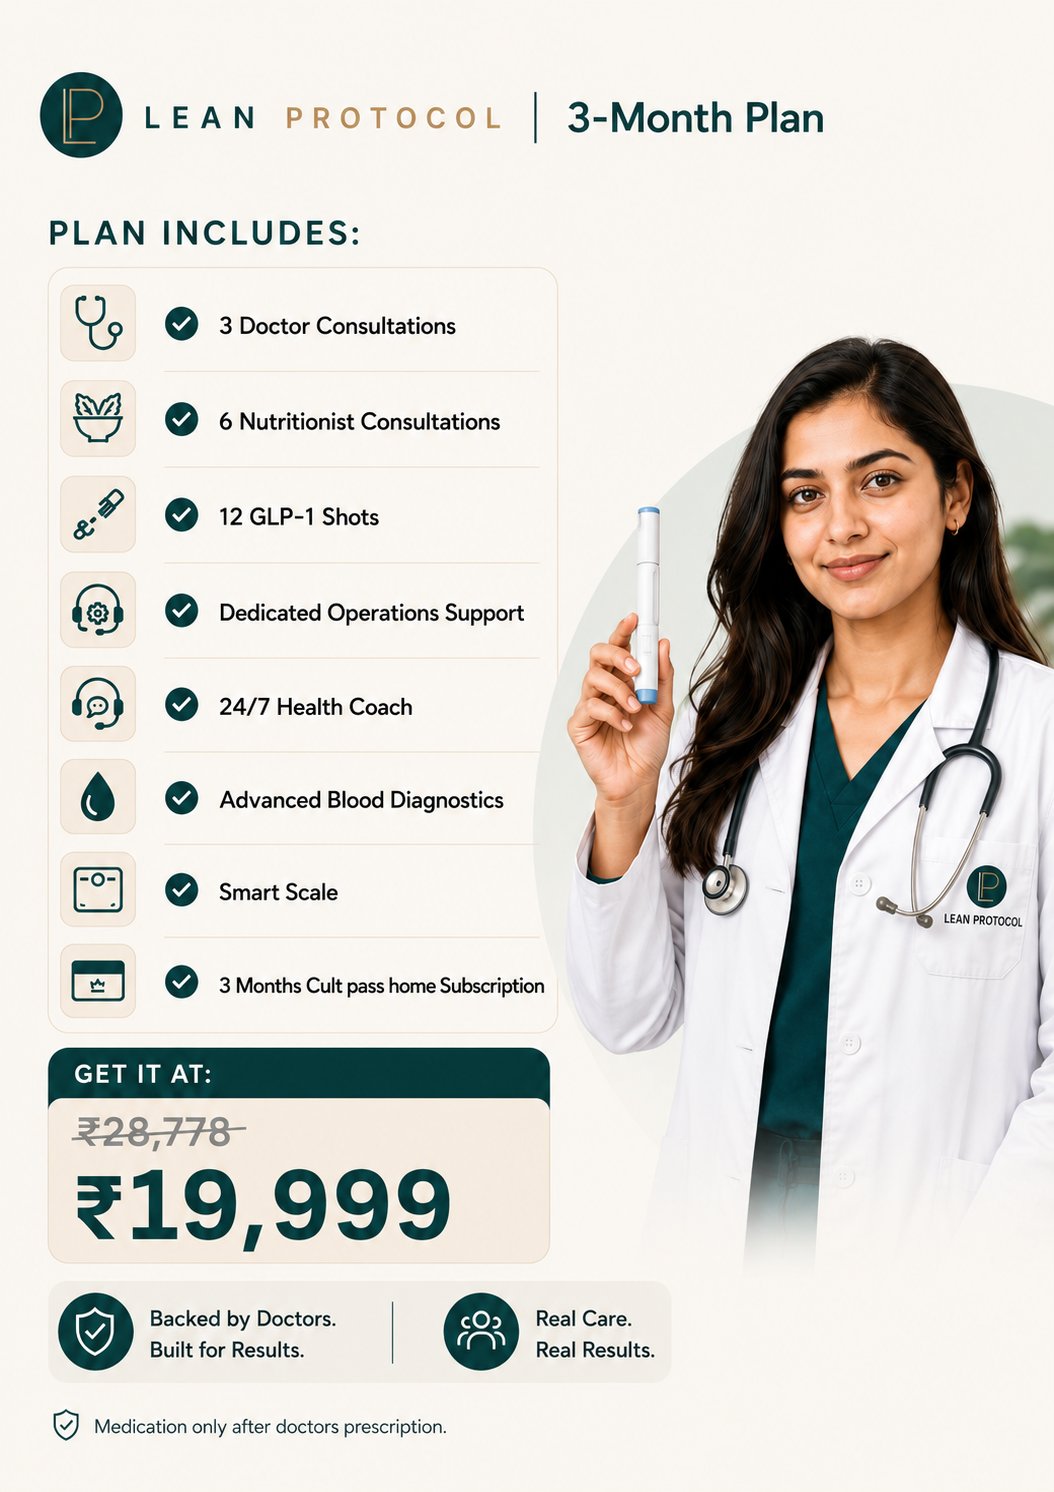
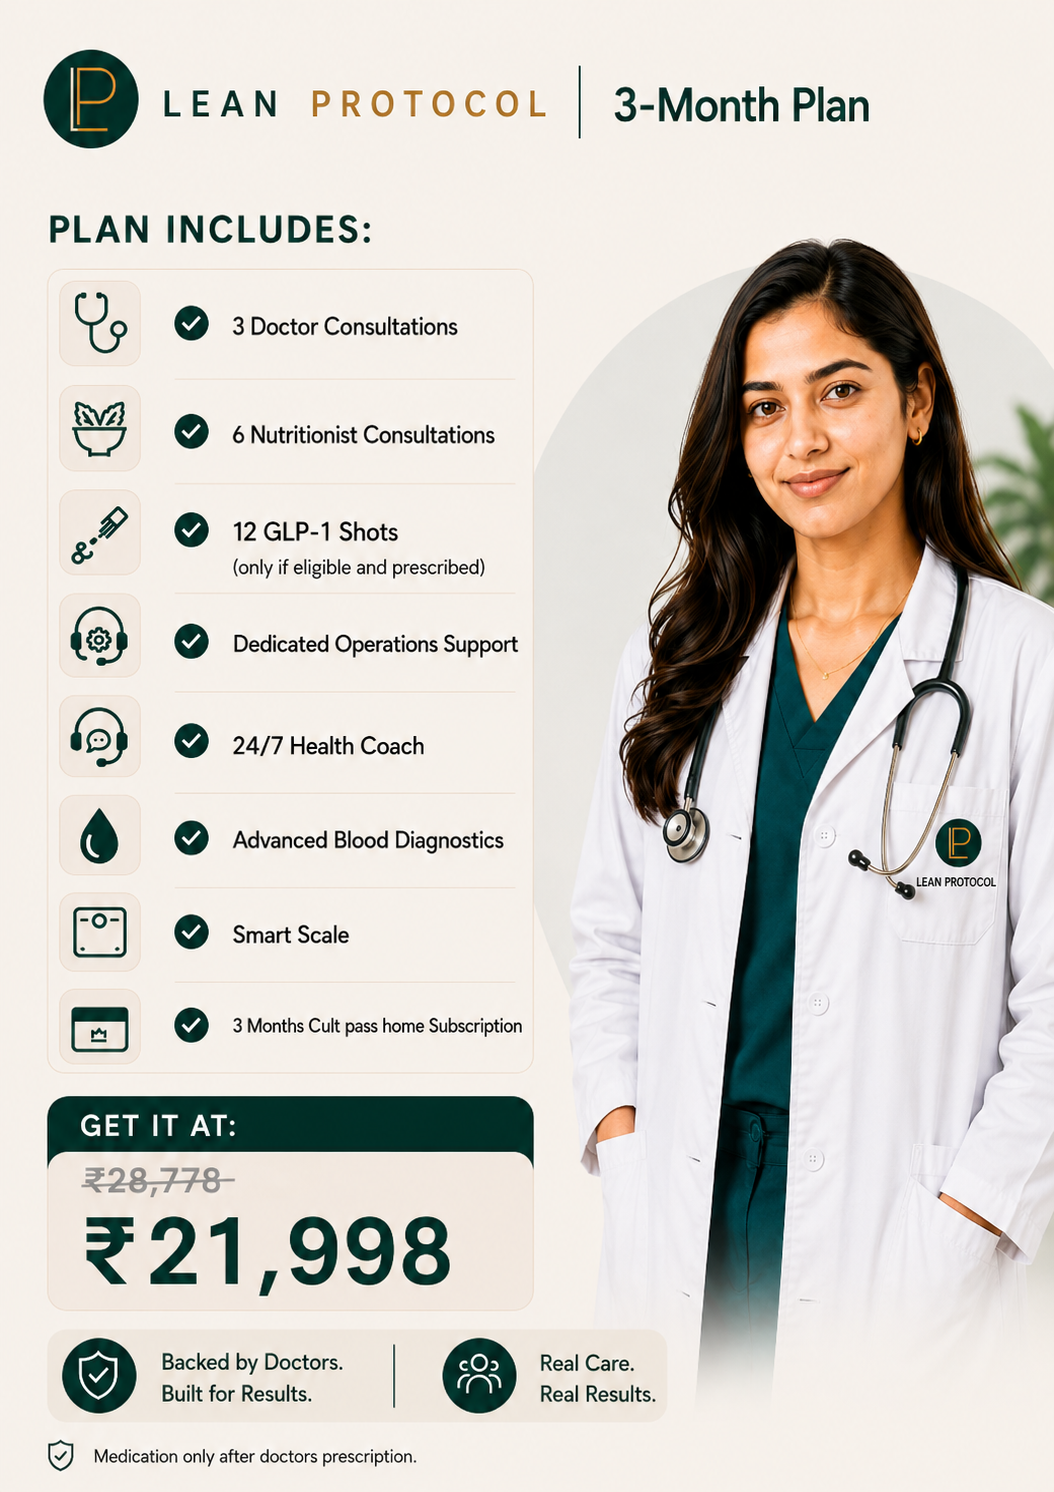
Update affiliate plan posters (1/3/6 month plans)

diff --git a/components/affiliate-lp/hero-section.tsx b/components/affiliate-lp/hero-section.tsx
@@ -38,7 +38,7 @@ export function HeroSection({ onBuyNow, isCheckoutLoading, dbPlans, pageTitle, m
     else if (plan.durationDays >= 90) durationLabel = "3 Months";
     else if (plan.durationDays <= 15 || plan.name.toLowerCase().includes("doctor")) durationLabel = "Doctor Consultation";
 
-    let image = medicationType === "MOUNJARO" ? "/lp-assets/mounjaro-1-month-plan.png" : "/lp-assets/1-month-plan.jpeg";
+    let image = medicationType === "MOUNJARO" ? "/lp-assets/mounjaro-1-month-plan.png" : "/lp-assets/1-month-plan.png";
     if (durationLabel === "3 Months") image = medicationType === "MOUNJARO" ? "/lp-assets/mounjaro-3-months-plan.png" : "/lp-assets/3-months-plan.png";
     else if (durationLabel === "6 Months") image = medicationType === "MOUNJARO" ? "/lp-assets/mounjaro-6-months-plan.png" : "/lp-assets/6-months-plan.png";
     else if (durationLabel === "Doctor Consultation") image = "/lp-assets/doctor-lean-protocol.jpeg";
@@ -54,24 +54,24 @@ export function HeroSection({ onBuyNow, isCheckoutLoading, dbPlans, pageTitle, m
   }) : [
     {
       durationLabel: "1 Month",
-      title: "Lean Start – Beginner Plan",
+      title: "Lean Start â€“ Beginner Plan",
       price: 5999,
       originalPrice: 9229,
-      image: "/lp-assets/1-month-plan.jpeg",
+      image: "/lp-assets/1-month-plan.png",
     },
     {
       durationLabel: "3 Months",
-      title: "Lean Pro – Comprehensive Plan",
+      title: "Lean Pro â€“ Comprehensive Plan",
       price: 19999,
       originalPrice: 28778,
-      image: "/lp-assets/3-months-plan.jpeg",
+      image: "/lp-assets/3-months-plan.png",
     },
     {
       durationLabel: "6 Months",
-      title: "Lean Champion – Guaranteed Weight Loss",
+      title: "Lean Champion â€“ Guaranteed Weight Loss",
       price: 39998,
       originalPrice: 58667,
-      image: "/lp-assets/6-months-plan.jpeg",
+      image: "/lp-assets/6-months-plan.png",
     },
     {
       durationLabel: "Doctor Consultation",
@@ -151,7 +151,7 @@ export function HeroSection({ onBuyNow, isCheckoutLoading, dbPlans, pageTitle, m
 
   return (
     <>
-      {/* SECTION 1 – Sticky Navbar (matches main site) */}
+      {/* SECTION 1 â€“ Sticky Navbar (matches main site) */}
       <header className="sticky top-0 md:top-3 z-50 mx-auto w-full md:w-[98%] md:max-w-[97%] md:rounded-2xl border border-white/40 bg-white/60 backdrop-blur-xl shadow-[0_12px_30px_rgba(15,23,42,0.12)] ring-1 ring-black/5 transition-all duration-300">
         <div className="container mx-auto flex h-16 md:h-20 items-center justify-between px-4 lg:px-8">
           <Link href="/" className="flex items-center">
@@ -176,7 +176,7 @@ export function HeroSection({ onBuyNow, isCheckoutLoading, dbPlans, pageTitle, m
         </div>
       </header>
 
-      {/* SECTION 2 – Hero / Plan Selector */}
+      {/* SECTION 2 â€“ Hero / Plan Selector */}
       <section className="pt-8 md:pt-12 pb-16 px-4 max-w-7xl mx-auto flex flex-col lg:grid lg:grid-cols-2 gap-8 md:gap-12" id="plans">
         
         {/* MOBILE HEADLINE (Shown only on mobile, placed at the top) */}
@@ -186,8 +186,8 @@ export function HeroSection({ onBuyNow, isCheckoutLoading, dbPlans, pageTitle, m
           </h1>
           
           <div className="flex items-center gap-3">
-            <span className="text-3xl font-bold text-lp-dark">₹{activePlan.price.toLocaleString()}</span>
-            <span className="text-lg text-gray-400 line-through">₹{activePlan.originalPrice.toLocaleString()}</span>
+            <span className="text-3xl font-bold text-lp-dark">â‚¹{activePlan.price.toLocaleString()}</span>
+            <span className="text-lg text-gray-400 line-through">â‚¹{activePlan.originalPrice.toLocaleString()}</span>
             <div className="bg-lp-green text-white text-[10px] font-bold px-2 py-1 rounded-full shadow-sm uppercase tracking-wider">
               {Math.round((1 - activePlan.price / activePlan.originalPrice) * 100)}% OFF
             </div>
@@ -203,8 +203,8 @@ export function HeroSection({ onBuyNow, isCheckoutLoading, dbPlans, pageTitle, m
             </h1>
             
             <div className="flex items-center gap-5 mt-6">
-              <span className="text-4xl font-bold text-lp-dark">₹{activePlan.price.toLocaleString()}</span>
-              <span className="text-xl text-gray-400 line-through">₹{activePlan.originalPrice.toLocaleString()}</span>
+              <span className="text-4xl font-bold text-lp-dark">â‚¹{activePlan.price.toLocaleString()}</span>
+              <span className="text-xl text-gray-400 line-through">â‚¹{activePlan.originalPrice.toLocaleString()}</span>
               <div className="bg-lp-green text-white text-xs font-bold px-3 py-1.5 rounded-full shadow-sm uppercase tracking-wider">
                 {Math.round((1 - activePlan.price / activePlan.originalPrice) * 100)}% OFF
               </div>
@@ -240,8 +240,8 @@ export function HeroSection({ onBuyNow, isCheckoutLoading, dbPlans, pageTitle, m
                       {plan.durationLabel}
                     </p>
                     <div className="text-right">
-                       <p className="text-lg font-bold text-lp-dark leading-none">₹{plan.price.toLocaleString()}</p>
-                       <p className="line-through text-gray-400 text-xs mt-1">₹{plan.originalPrice.toLocaleString()}</p>
+                       <p className="text-lg font-bold text-lp-dark leading-none">â‚¹{plan.price.toLocaleString()}</p>
+                       <p className="line-through text-gray-400 text-xs mt-1">â‚¹{plan.originalPrice.toLocaleString()}</p>
                     </div>
                   </div>
                   <p className="font-bold text-lp-dark text-sm pr-8 md:pr-16">{plan.title}</p>
@@ -258,7 +258,7 @@ export function HeroSection({ onBuyNow, isCheckoutLoading, dbPlans, pageTitle, m
             {isCheckoutLoading ? "Processing..." : `Get Started Now`}
           </Button>
 
-          {/* SECTION 3 – Terms & Conditions Block */}
+          {/* SECTION 3 â€“ Terms & Conditions Block */}
           <div className="mt-6 pt-6 border-t border-gray-100 space-y-4">
             <h3 className="font-bold text-lp-dark text-sm flex items-center gap-2">
               <Info className="w-4 h-4 text-lp-green" />
